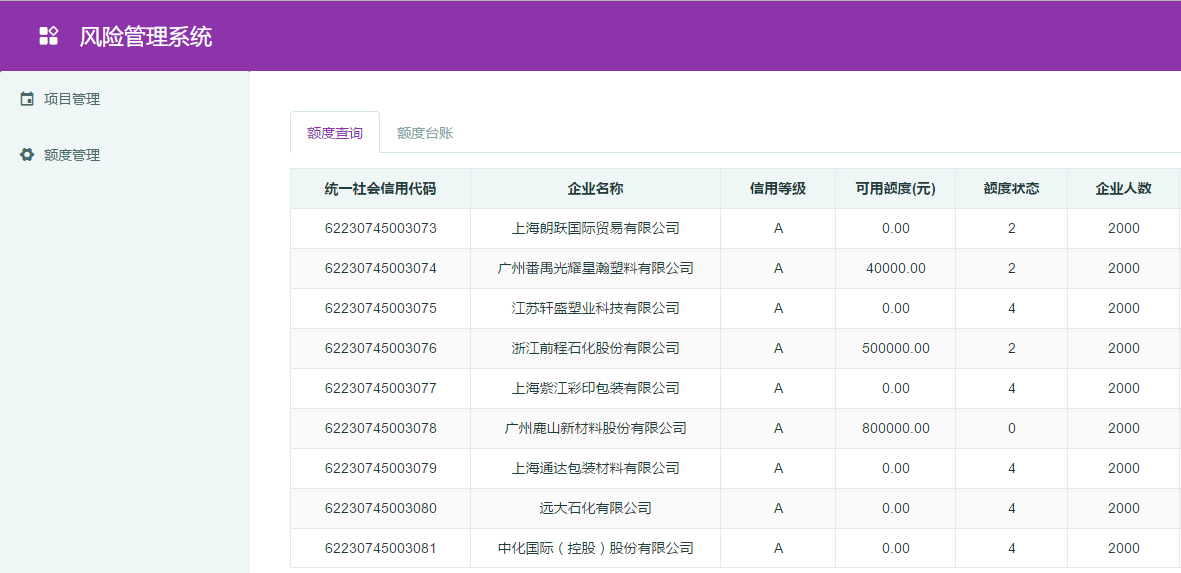
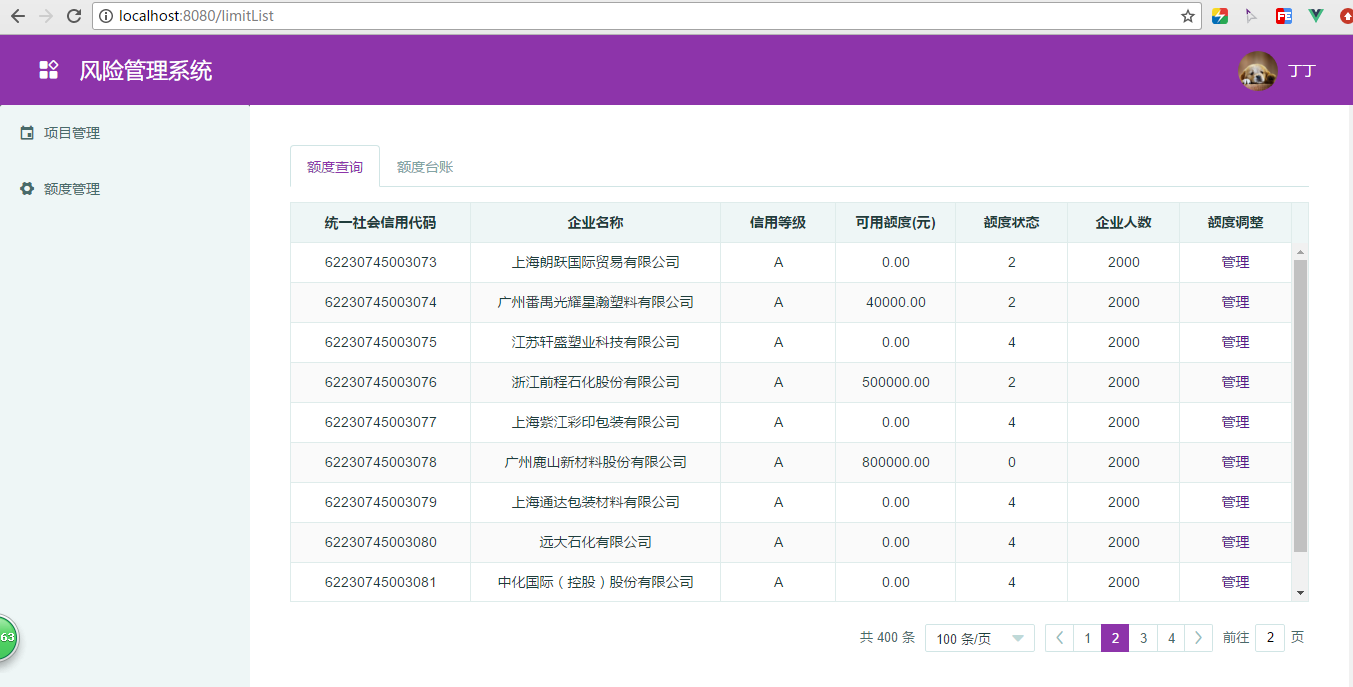
修改额度列表

diff --git a/src/pages/LimitList.vue b/src/pages/LimitList.vue
@@ -44,10 +44,24 @@
             </el-table-column>
             <el-table-column
               label="额度调整"
-              >管理
+              >
+              <template scope="scope">
+                <a href="#">管理</a>
+              </template>
             </el-table-column>
 
           </el-table>
+        <div class="block">
+          <el-pagination
+            @size-change="handleSizeChange"
+            @current-change="handleCurrentChange"
+            :current-page="1"
+            :page-sizes="[100, 200, 300, 400]"
+            :page-size="100"
+            layout="total, sizes, prev, pager, next, jumper"
+            :total="400">
+          </el-pagination>
+        </div>
       </el-tab-pane>
       <el-tab-pane label="额度台账" name="second">额度台账</el-tab-pane>
     </el-tabs>
@@ -110,5 +124,7 @@
       .cell
          word-break: keep-all
          white-space: nowrap
-
+  .el-pagination
+    margin: 20px 0 0
+    float: right
 </style>
